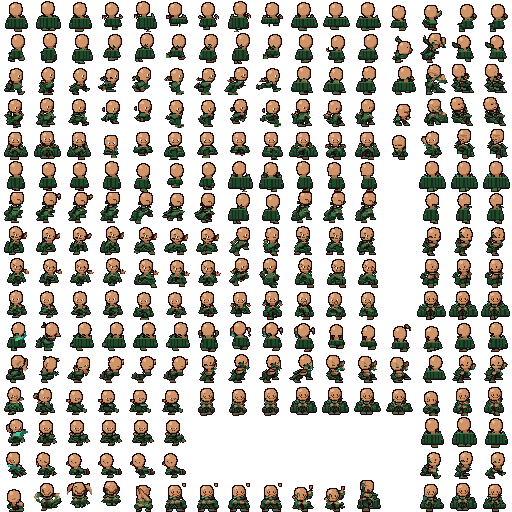
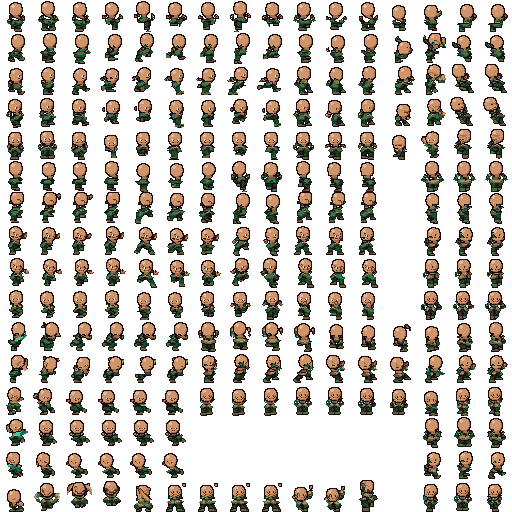
Class heroes back to one plain bald look, told apart by colour
The beards, cloaks and keffiyehs looked wrong in the game, so every class wears the same bald hero again, only the outfit's colours differ. accessories.py and the LOOKS table are gone.

diff --git a/misc/hero_skins/make_skins.py b/misc/hero_skins/make_skins.py
@@ -16,8 +16,6 @@ usage: python -I make_skins.py <asset_1.zas> <out folder>
 import struct, sys, os
 import numpy as np
 from PIL import Image
-sys.path.insert(0, os.path.dirname(os.path.abspath(__file__)))
-from accessories import draw_look
 
 
 def original_sheet(zas):
@@ -331,7 +329,7 @@ def join_neck(cell, dome, bx, by):
     return cell
 
 
-def bald_head(cell, look=None, rest_y=None, measure=False):
+def bald_head(cell, rest_y=None, measure=False):
     """takes the hair (and the headphones) away and draws a round bald head
     a size smaller in their place, then puts the original face (skin, eyes,
     mouth) back on it. rest_y is the head's height in the standing frame of
@@ -445,19 +443,7 @@ def bald_head(cell, look=None, rest_y=None, measure=False):
     rim = dome & ~(np.roll(dome, 1, 0) & np.roll(dome, -1, 0) & np.roll(dome, 1, 1) & np.roll(dome, -1, 1))
     rim &= ~moved
     cell[rim & (cell[..., 3] > 0)] = OUTLINE + (255,)
-    # NOTE: what the class wears (accessories.py), placed from the head
-    # and the face
-    whites = np.nonzero(is_col(cell, [WHITE]) & moved)[0]
-    if len(whites):
-        eye_row = whites.min()
-    elif face_patch:
-        eye_row = fy.min() - lift + 1
-    else:
-        eye_row = by
     cell = join_neck(cell, dome, bx, by)
-    info = {'bx': bx, 'by': by, 'rx': BALD_RX, 'ry': BALD_RY, 'dome': dome,
-            'face': moved, 'eye_row': eye_row}
-    cell = draw_look(cell, info, look)
     # NOTE: the streak keeps marker colours from here on, so the new head
     # it may touch is never taken for it
     for src, mark in zip(SKIN, STREAK):
@@ -487,7 +473,7 @@ def despeck(cell):
 
 
 def class_cell(cell, pal, rest_y=None):
-    cell = thicken_legs(trim_hips(widen(bald_head(cell, LOOKS.get(pal.get('name')), rest_y))))
+    cell = thicken_legs(trim_hips(widen(bald_head(cell, rest_y))))
     h = head_of(cell)
     out = cell.copy()
     yy, xx = np.mgrid[0:32, 0:32]
@@ -553,23 +539,6 @@ def class_cell(cell, pal, rest_y=None):
     return despeck(out)
 
 
-# NOTE: what each class wears over the bald head (accessories.py); the
-# Bulwark stays a clean-shaven bald knight
-LOOKS = {
-    'firemage': {'beard': [(40, 20, 14), (74, 40, 26), (108, 64, 40)]},
-    'berserker': {'beard': [(92, 26, 10), (156, 52, 22), (206, 92, 44)]},
-    'frostmage': {'beard': [(150, 160, 176), (212, 220, 232), (250, 252, 255)]},
-    'druid': {'beard': [(88, 82, 72), (140, 132, 116), (190, 184, 168)]},
-    'ranger': {'cloak': [(20, 44, 28), (34, 72, 44), (60, 110, 70)]},
-    'shadowblade': {'cloak': [(18, 12, 28), (40, 28, 62), (72, 52, 108)]},
-    'stormcaller': {'cloak': [(12, 18, 46), (26, 40, 92), (52, 76, 150)]},
-    'mender': {'keffiyeh': {'cloth': [(176, 172, 160), (232, 228, 216), (252, 250, 244)],
-                            'agal': [(40, 30, 26), (80, 62, 40)]}},
-    'duelist': {'keffiyeh': {'cloth': [(176, 172, 160), (232, 228, 216), (252, 250, 244)],
-                             'check': (186, 38, 48), 'agal': [(30, 22, 22), (66, 48, 40)]}},
-}
-
-
 # NOTE: the cells the game plays, by facing (sim/animations.cpp): first
 # frame and count of each animation, and the standing frame of each facing
 PLAYED = {
@@ -605,5 +574,5 @@ if __name__ == '__main__':
     sheet = original_sheet(zas)
     os.makedirs(out, exist_ok=True)
     for name, pal in P.items():
-        Image.fromarray(class_sheet(sheet, dict(pal, name=name))).save(os.path.join(out, f'{name}.png'), optimize=True)
+        Image.fromarray(class_sheet(sheet, pal)).save(os.path.join(out, f'{name}.png'), optimize=True)
         print(name)
